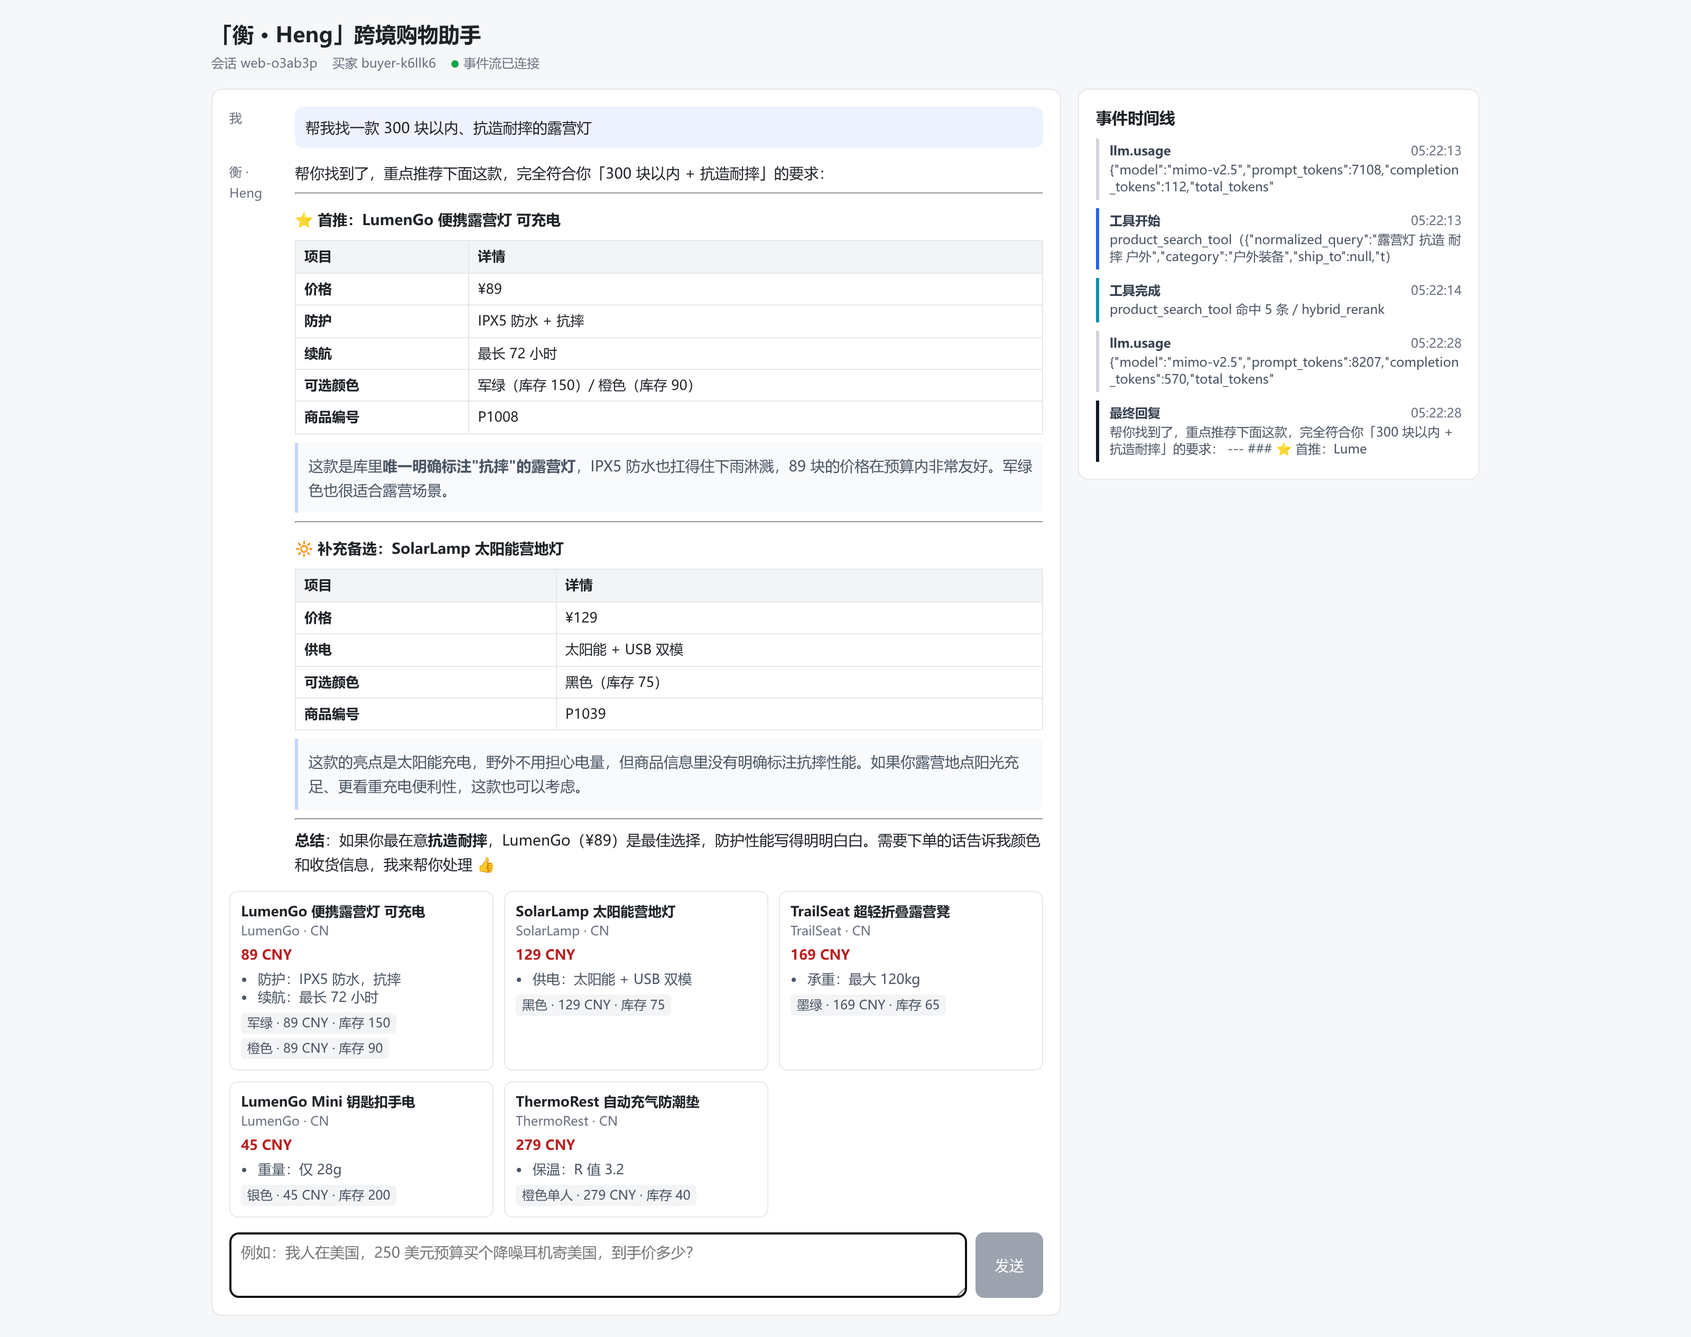
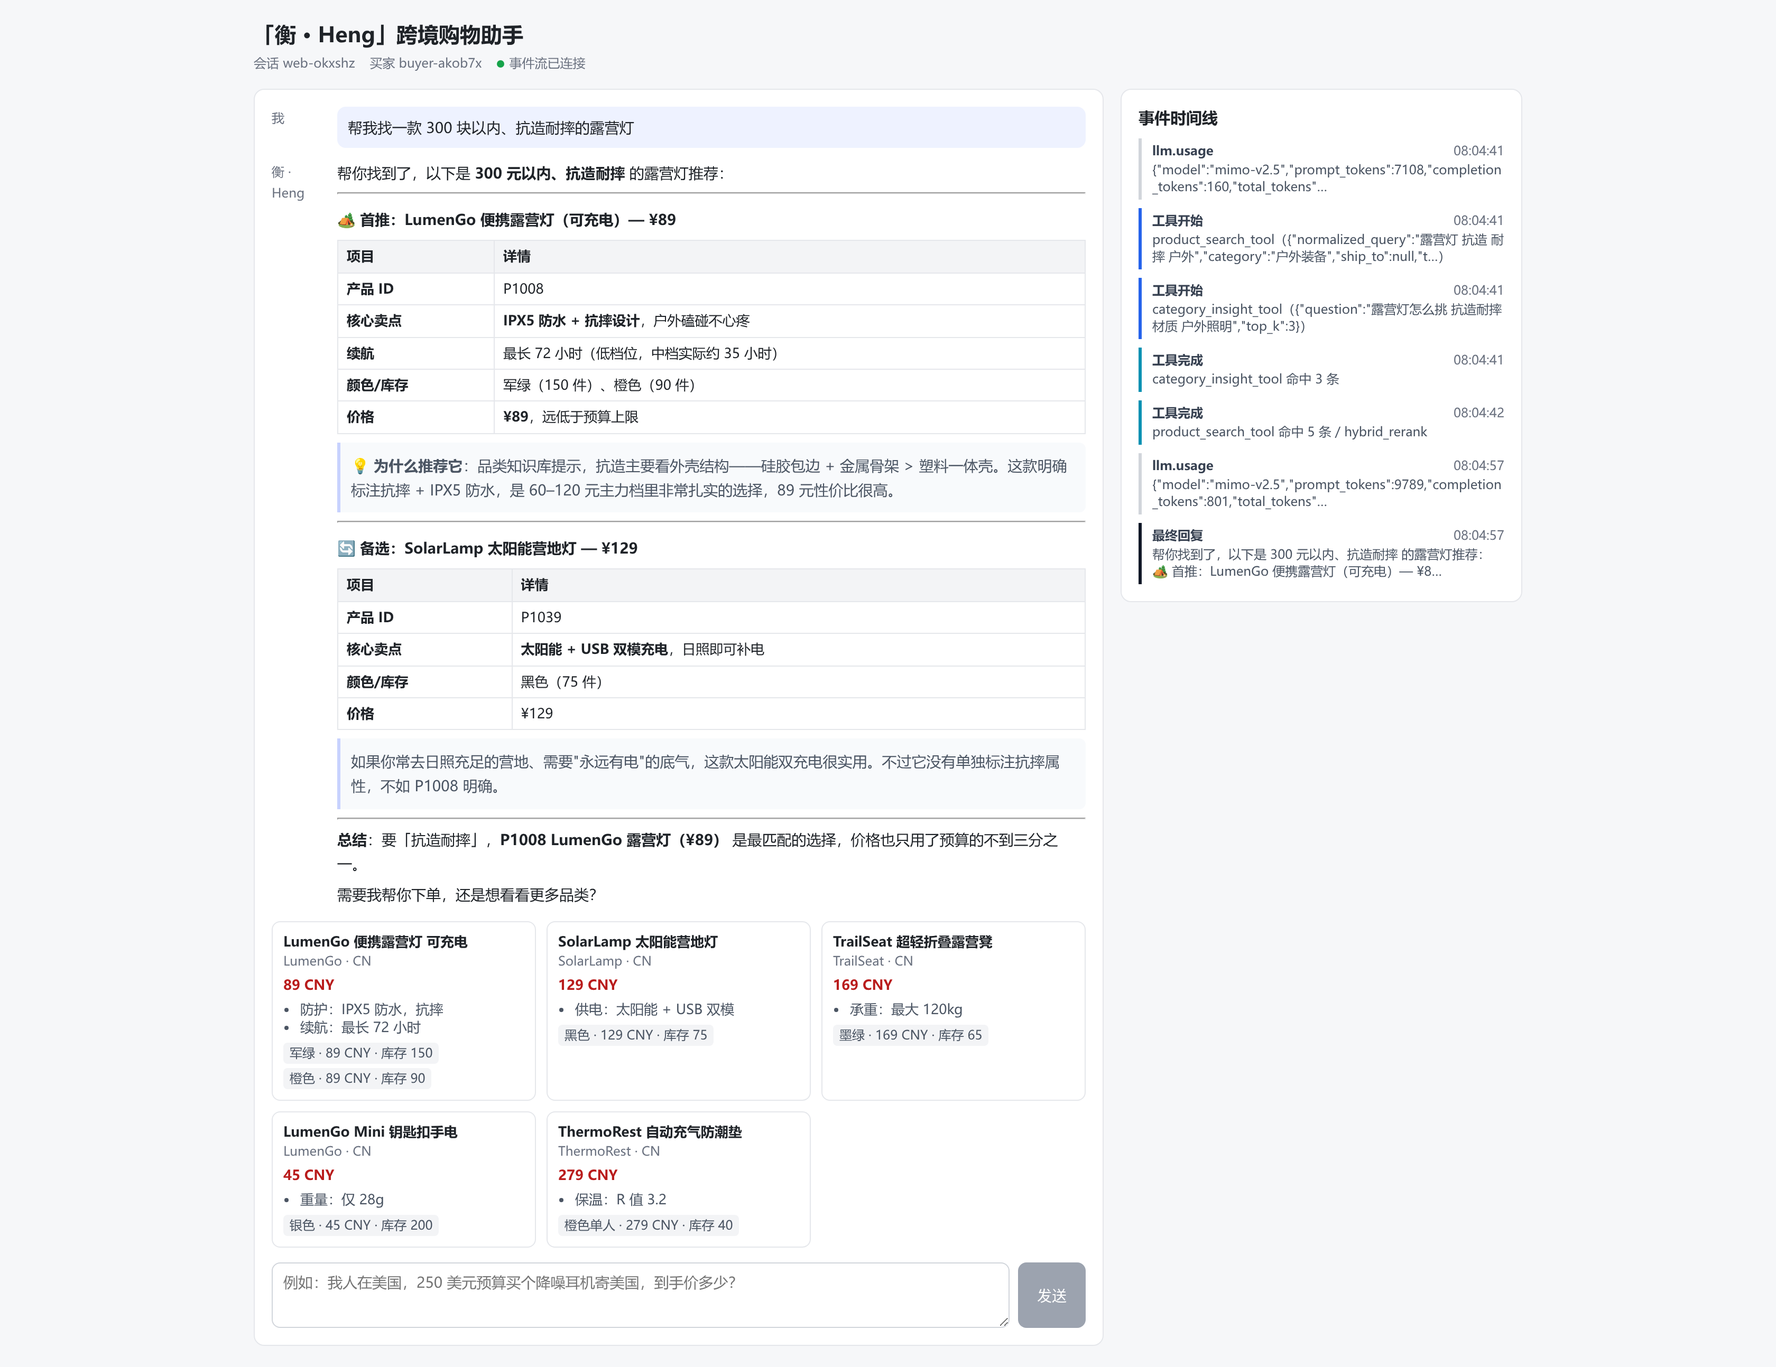
docs(assets): 架构图修错箭头与空盒 + 重截真实跑测效果图
架构图：
- React 前端到 Redis Stream 有一条向下箭头，读起来是"浏览器直连队列"。
  浏览器只跟 FastAPI 说话，横向那条已经说清了，删掉。入队的只有 FastAPI。
- 右栏 Rubric 盒按 3 行的高度画、只填了 2 行正文，空出三分之一。补第三行。
- "五档降级链"与代码和 README 都对不上，改成"降级链如实标注 recall_strategy"。
- 两条竖排标签 7.2pt，在 README 的 900px 宽度下糊成一团，提到 8.6pt。

（本提交也带上会话开始前就未提交的架构图重绘改动。）

效果图重截，真实跑测、hybrid_rerank 主路径（远端 GPU 跑
Qwen3-Embedding-0.6B + Qwen3-Reranker-0.6B）。相比旧图：
- 时间线的截断与 markdown 泄漏已修（前一个前端提交的实机验证）
- 商品卡带到手价拆解（小计 + 运费 + 关税），这轮还触发了 category_insight_tool，
  回复里能看到知识库出处——恰好是判据要管的那条线
- 截图前解除对话区/时间线的 max-height，整页不再被滚动容器截断

配套的 README 双图版式（主图给全景 + 时间线单独 520px 放大）在上一个 docs 提交里：
原来 3360px 塞进 900px，时间线正文缩到约 6px，而它正是"过程实时可见"的唯一证据。

Claude-Session: https://claude.ai/code/session_01YQzsVn4SP6jbArLGfKEujZ

Changed region(s): [[0.125, 0.0, 0.875, 0.968], [0.5625, 0.9055, 0.625, 0.968]]

diff --git a/assets/draw_architecture.py b/assets/draw_architecture.py
@@ -6,9 +6,14 @@
     architecture.png        浅色主题
     architecture-dark.png   深色主题（GitHub dark mode 经 <picture> 自动切换）
 
-布局：左侧主列 = 买家交互 → 接入 → 编排（skill 阶段注入）→ 工具 → 基础设施 → 领域，
-DDD 洋葱自上而下；右侧竖列 = 可信度工程（评测/门禁/飞轮），两条虚线"会话流水 / 判读反哺"
-把评测闭环画进图里——起点终点都钉在盒子边缘，不穿任何元素。
+布局纪律（视觉评审后定稿）：
+- 左列各层带 y 间隙统一 2.0-2.2，层间箭头等长；
+- 编排层容器完整包住 SearchAgent/TradeAgent，说明文字上移到标题行右侧，不压任何盒子；
+- 右列四盒等距（gap 3.0），盒内"标题在上、正文 va=top"，不再上松下紧；
+- 盒高按正文行数配：3 行给 13.4、2 行给 10.6，别让盒子空出半截；
+- 接入层只接 FastAPI 一条入队箭头（浏览器不直连队列）；
+- 两条橙色虚线起止钉在盒边缘，走两列之间的空白通道，竖排标签带底色遮罩压线；
+- 底部信息条三行（认证读数 ×2 + 技术栈/边界），每行右端距边框 ≥ 10 单位。
 """
 from pathlib import Path
 import argparse
@@ -37,7 +42,7 @@ import matplotlib.pyplot as plt
 plt.rcParams["font.family"] = FONT
 plt.rcParams["axes.unicode_minus"] = False
 
-# 主题色板：fill / edge / band-title / body-text
+# 主题色板：fill / edge / band-title
 THEMES = {
     "light": dict(
         file="architecture.png",
@@ -65,10 +70,14 @@ THEMES = {
     ),
 }
 
+BAND_L = 5.5            # 左列各层带左缘
+BAND_W = 60.0
+BAND_R = BAND_L + BAND_W   # 65.5
+EV_L, EV_R = 70.5, 96.5    # 右列
+
 
 def draw(t):
-    W, H = 14.0, 8.8
-    fig, ax = plt.subplots(figsize=(W, H), dpi=200)
+    fig, ax = plt.subplots(figsize=(14.0, 8.8), dpi=200)
     fig.patch.set_facecolor(t["bg"])
     ax.set_xlim(0, 100)
     ax.set_ylim(0, 100)
@@ -83,151 +92,150 @@ def draw(t):
             zorder=2,
         ))
 
-    def text(x, y, s, size=10.5, color=None, weight="normal", ha="center", va="center", rotation=0):
+    def text(x, y, s, size=10.5, color=None, weight="normal", ha="center", va="center",
+             rotation=0, on_line=False):
+        kw = {}
+        if on_line:  # 竖排标签压线时加底色遮罩
+            kw["bbox"] = dict(boxstyle="round,pad=0.18", facecolor=t["bg"], edgecolor="none")
         ax.text(x, y, s, fontsize=size, color=color or t["ink"], fontweight=weight,
-                ha=ha, va=va, zorder=3, linespacing=1.45, rotation=rotation)
+                ha=ha, va=va, zorder=3, linespacing=1.5, rotation=rotation, **kw)
 
     def arrow(x1, y1, x2, y2, color=None, lw=1.6, style="-|>", dashed=False, conn="arc3,rad=0"):
         ax.add_patch(FancyArrowPatch(
             (x1, y1), (x2, y2), arrowstyle=style, mutation_scale=14,
             color=color or t["muted"], linewidth=lw, linestyle=(0, (4, 2)) if dashed else "solid",
-            connectionstyle=conn, zorder=4, shrinkA=2, shrinkB=2,
+            connectionstyle=conn, zorder=4, shrinkA=0, shrinkB=0,
         ))
 
     def band_label(x, y, s):
         ax.text(x, y, s, fontsize=9, color=t["muted"], ha="center", va="center",
                 zorder=3, rotation=0)
 
-    # ============ 左侧主列 ============
-    MAIN_L, MAIN_R = 4, 66
-    BAND_L = MAIN_L + 1.5
-    BAND_R = BAND_L + 60          # 各层带右缘 = 65.5
+    # ============ 标题 ============
+    text(50, 97.6, "「衡 · Heng」跨境电商 Agent —— 系统架构与可信度工程", 15.5, weight="bold")
 
-    # —— 买家交互 ——
+    # ============ 买家交互 ============
     box(8, 88, 22, 8, *t["gray"])
     text(19, 93.2, "React 前端", 11.5, weight="bold")
     text(19, 90.2, "对话流 · 商品卡 · 事件时间线", 8.5, t["muted"])
     box(36, 88, 26, 8, *t["gray"])
     text(49, 93.2, "FastAPI 服务", 11.5, weight="bold")
     text(49, 90.2, "POST /commerce/intents · /events WebSocket", 8.5, t["muted"])
+    arrow(30, 92, 36, 92)
+    band_label(2.8, 92, "买家\n交互")
+
+    # ============ 接入（可选异步链） ============
     box(8, 78, 54, 6.4, t["bg"], t["grid"], lw=1.0, dashed=True)
     text(35, 81.2, "Redis Stream 队列削峰（可选）· 幂等键防重复下单 · 独立 Worker 消费进程", 8.8, t["muted"])
-    arrow(30, 92, 36, 92)
+    # 入队的只有 FastAPI：浏览器不直连 Redis，React 那条向下箭头是错的（已删）
     arrow(49, 88, 49, 84.4, dashed=True)
-    arrow(22, 88, 22, 84.4, dashed=True)
-    band_label(2.8, 92, "买家\n交互")
+    arrow(35.5, 78, 35.5, 76.0, dashed=True)  # 接入 → 编排（补上层间流向）
     band_label(2.8, 81, "接入")
 
-    # —— 编排层 ——
+    # ============ 编排层 ============
     band_fill, band_edge, band_title = t["blue"]
-    box(BAND_L, 63.5, 60, 12.2, band_fill, band_edge, lw=1.6)
-    text(BAND_L + 1.2, 74.2, "编排层（application/agents）", 8.5, band_title, ha="left")
-    text(BAND_L + 30, 64.35, "满足可并行 / 上下文隔离 / 链深才派发，否则 MainAgent 单干",
-         7.2, t["muted"], ha="center")
-    box(BAND_L + 2.8, 66.4, 16.6, 7.0, t["bg"], band_edge, lw=1.3)
-    text(BAND_L + 11.1, 71.6, "Orchestrator", 10.5, weight="bold")
-    text(BAND_L + 11.1, 68.7, "会话恢复 · 记忆注入\n技能阶段路由 set_stage", 7.6, t["muted"])
-    box(BAND_L + 21.5, 66.4, 17.5, 7.0, t["blue_hi"], band_edge, lw=1.8)
-    text(BAND_L + 30.2, 71.8, "MainAgent", 11, weight="bold")
-    text(BAND_L + 30.2, 68.6, "skill 阶段拼装 system prompt\n持有全部业务工具，单干优先", 7.6, t["muted"])
-    box(BAND_L + 41.5, 68.0, 16, 5.4, t["bg"], band_edge, lw=1.2)
-    text(BAND_L + 49.5, 71.7, "SearchAgent", 9.5, weight="bold")
-    text(BAND_L + 49.5, 69.4, "检索专家", 7.6, t["muted"])
-    box(BAND_L + 41.5, 61.6, 16, 5.4, t["bg"], band_edge, lw=1.2)
-    text(BAND_L + 49.5, 65.3, "TradeAgent", 9.5, weight="bold")
-    text(BAND_L + 49.5, 63.0, "交易专家", 7.6, t["muted"])
-    arrow(BAND_L + 19.4, 69.9, BAND_L + 21.5, 69.9)
-    arrow(BAND_L + 39.0, 70.5, BAND_L + 41.5, 70.5, conn="arc3,rad=-0.10")
-    arrow(BAND_L + 39.0, 68.8, BAND_L + 41.5, 64.2, conn="arc3,rad=0.10")
-    text(BAND_L + 40.2, 74.6, "task_dispatch", 7.0, t["muted"], ha="center")
-    band_label(2.8, 69, "编排\n应用层")
+    box(BAND_L, 60.8, BAND_W, 15.2, band_fill, band_edge, lw=1.6)     # 60.8-76.0
+    text(BAND_L + 1.2, 74.7, "编排层（application/agents）", 8.4, band_title, ha="left")
+    text(BAND_R - 1.2, 74.7, "task_dispatch 按链深与可并行性派发，否则 MainAgent 单干",
+         7.0, t["muted"], ha="right")
+    box(8.3, 66.4, 16.6, 7.2, t["bg"], band_edge, lw=1.3)
+    text(16.6, 71.8, "Orchestrator", 10.5, weight="bold")
+    text(16.6, 68.7, "会话恢复 · 记忆注入\n技能阶段路由 set_stage", 7.6, t["muted"])
+    box(27.0, 66.4, 17.5, 7.2, t["blue_hi"], band_edge, lw=1.8)
+    text(35.75, 72.0, "MainAgent", 11, weight="bold")
+    text(35.75, 68.6, "skill 阶段拼装 system prompt\n持有全部业务工具，单干优先", 7.6, t["muted"])
+    box(47.0, 68.2, 16, 5.2, t["bg"], band_edge, lw=1.2)
+    text(55.0, 71.9, "SearchAgent", 9.5, weight="bold")
+    text(55.0, 69.5, "检索专家", 7.6, t["muted"])
+    box(47.0, 61.8, 16, 5.2, t["bg"], band_edge, lw=1.2)
+    text(55.0, 65.5, "TradeAgent", 9.5, weight="bold")
+    text(55.0, 63.1, "交易专家", 7.6, t["muted"])
+    arrow(24.9, 70.0, 27.0, 70.0)
+    arrow(44.5, 71.2, 47.0, 71.5, conn="arc3,rad=-0.08")
+    arrow(44.5, 68.8, 47.0, 64.6, conn="arc3,rad=0.10")
+    band_label(2.8, 68, "编排\n应用层")
 
-    # —— 工具层 ——
+    arrow(35.5, 60.8, 35.5, 58.8)   # 编排 → 工具
+
+    # ============ 工具层 ============
     band_fill, band_edge, band_title = t["purple"]
-    box(BAND_L, 48.5, 60, 9.2, band_fill, band_edge, lw=1.4)
-    text(BAND_L + 1.2, 56.2, "工具层（application/tools）——返回值自带边界与出处", 8.5, band_title, ha="left")
+    box(BAND_L, 48.6, BAND_W, 10.2, band_fill, band_edge, lw=1.4)     # 48.6-58.8
+    text(BAND_L + 1.2, 57.4, "工具层（application/tools）——返回值自带边界与出处", 8.4, band_title, ha="left")
     tools = ["商品检索\n混合召回", "组合报价\n一次履约计费", "组合优化\n预算枚举",
              "订单三件套\n跨越确认", "偏好记忆\n跨会话", "品类洞察\nRAG"]
-    tw = 9.0
     for i, s in enumerate(tools):
-        tx = BAND_L + 1.6 + i * (tw + 0.62)
-        box(tx, 49.6, tw, 5.6, t["bg"], band_edge, lw=1.0, radius=0.8)
-        text(tx + tw / 2, 52.4, s, 7.6)
-    band_label(2.8, 53, "工具")
+        tx = 7.1 + i * 9.62
+        box(tx, 49.4, 9.0, 6.6, t["bg"], band_edge, lw=1.0, radius=0.8)
+        text(tx + 4.5, 52.7, s, 7.6)
+    band_label(2.8, 53.5, "工具")
 
-    # —— 基础设施层 ——
+    arrow(35.5, 48.6, 35.5, 46.4)   # 工具 → 基础设施
+
+    # ============ 基础设施层 ============
     band_fill, band_edge, band_title = t["green"]
-    box(BAND_L, 29.6, 60, 16.4, band_fill, band_edge, lw=1.4)
-    text(BAND_L + 1.2, 44.6, "基础设施（infrastructure）", 8.5, band_title, ha="left")
-
+    box(BAND_L, 29.4, BAND_W, 17.0, band_fill, band_edge, lw=1.4)     # 29.4-46.4
+    text(BAND_L + 1.2, 45.0, "基础设施（infrastructure）", 8.4, band_title, ha="left")
     infra = [
-        ("LLM 网关治理", "限并发 + 间隔闸门\n瞬时故障退避重试\n回退备用模型·发事件\n重试收口只有一层"),
-        ("检索链路", "BM25 + 向量 RRF 融合\ncross-encoder 精排\n五档降级链如实标注\n置信度门控（降级态）"),
-        ("存储与缓存", "SQLite 流水/订单/会话\nQdrant 向量与知识库\n语义缓存（写旁路）\nRedis 事件背板"),
+        ("LLM 网关治理", "限并发 + 间隔闸门\n瞬时故障退避重试\n回退备用模型·发事件\n重试收口只有一层", 7.1, 17.6),
+        ("检索链路", "BM25 + 向量 RRF 融合\ncross-encoder 精排\n降级链如实标注 recall_strategy\n置信度门控（降级态）", 26.3, 17.6),
+        ("存储与缓存", "SQLite 流水/订单/会话\nQdrant 向量与知识库\n语义缓存（写旁路）\nRedis 事件背板", 45.5, 18.4),
     ]
-    for i, (title, detail) in enumerate(infra):
-        ix = BAND_L + 1.6 + i * 19.0
-        iw = 17.4 if i < 2 else 18.8
-        box(ix, 31.6, iw, 11.6, t["bg"], band_edge, lw=1.2)
-        text(ix + iw / 2, 42.3, title, 9.5, weight="bold")
-        text(ix + iw / 2, 39.9, detail, 7.2, t["muted"], va="top")
+    for title, detail, ix, iw in infra:
+        box(ix, 30.6, iw, 12.8, t["bg"], band_edge, lw=1.2)           # 30.6-43.4
+        text(ix + iw / 2, 41.8, title, 9.5, weight="bold")
+        text(ix + iw / 2, 39.8, detail, 7.2, t["muted"], va="top")
     band_label(2.8, 38, "基础\n设施")
 
-    arrow(BAND_L + 30.2, 63.5, BAND_L + 30.2, 57.9)   # 编排 → 工具
-    arrow(BAND_L + 30.2, 48.5, BAND_L + 30.2, 46.2)   # 工具 → 基础设施
+    arrow(35.5, 29.4, 35.5, 27.2)   # 基础设施 → 领域
 
-    # —— 域层横条 ——
+    # ============ 领域层 ============
     band_fill, band_edge, band_title = t["red"]
-    box(BAND_L, 20.4, 60, 6.6, band_fill, band_edge, lw=1.4)
-    text(BAND_L + 30, 24.8, "领域层（domain）—— 计价 / 关税 / 汇率 / 订单状态机：确定性的都留在这里",
+    box(BAND_L, 20.6, BAND_W, 6.6, band_fill, band_edge, lw=1.4)      # 20.6-27.2
+    text(BAND_L + 30, 24.9, "领域层（domain）—— 计价 / 关税 / 汇率 / 订单状态机：确定性的都留在这里",
          9.3, band_title, weight="bold")
-    text(BAND_L + 30, 22.0, "到手价与组合总价可确定性复算 · 免税额度存原生口径 · 订单归属校验",
-         7.8, t["muted"])
-    arrow(BAND_L + 30, 29.6, BAND_L + 30, 27.2)
-    band_label(2.8, 23.6, "领域")
+    text(BAND_L + 30, 22.1, "到手价与组合总价可确定性复算 · 免税额度存原生口径 · 订单归属校验", 7.8, t["muted"])
+    band_label(2.8, 23.9, "领域")
 
     # ============ 右侧：可信度工程 ============
-    EV_L, EV_R = 70.5, 96.5
     ev_fill, ev_edge, ev_title = t["amber"]
-    box(EV_L, 21.5, EV_R - EV_L, 74.5, ev_fill, ev_edge, lw=1.4)
-    text((EV_L + EV_R) / 2, 92.8, "可信度工程（eval/）", 12.5, ev_title, weight="bold")
-    text((EV_L + EV_R) / 2, 89.6, "每个数字都有出处、判据、复现命令", 8.3, t["muted"])
+    box(EV_L, 24.0, EV_R - EV_L, 72.0, ev_fill, ev_edge, lw=1.4)      # 24.0-96.0
+    text((EV_L + EV_R) / 2, 93.6, "可信度工程（eval/）", 12.5, ev_title, weight="bold")
+    text((EV_L + EV_R) / 2, 90.3, "每个数字都有出处、判据、复现命令", 8.3, t["muted"])
 
     ev_boxes = [
-        ("Rubric 评测回归", "60 用例（44 主线 + 11 红队 + 5 记忆）× judge\n配置行自报指纹与依赖实测可达性"),
-        ("A/B 认证轮（mem_replay）", "注入开 vs 关 · 成对比较\n位置互换 + 多数投票 + 双 judge\n三重认证 · 分层判读（预登记）"),
-        ("确定性判据门禁（零 LLM）", "金额出处 / 算式自洽 / 组合错加\n知识库出处 / 订单归属 / 召回指标\nmake check 八项 · 审计十几秒 · 真红留档"),
-        ("Bad-case 飞轮", "失败采集 → 指纹去重\n人工分诊 → 回归集\n判据与提示词同步迭代"),
+        ("Rubric 评测回归",
+         "60 用例（44 主线 + 11 红队 + 5 记忆）× judge\njudge 分级 P0/P1/P2 · 主线 44 条固定考卷\n配置行自报指纹与依赖实测可达性", 13.4),
+        ("A/B 认证轮（mem_replay）",
+         "注入开 vs 关 · 成对比较\n位置互换 + 多数投票 + 双 judge\n三重认证 · 分层判读（预登记）", 13.4),
+        ("确定性判据门禁（零 LLM）",
+         "金额出处 / 算式自洽 / 组合错加\n知识库出处 / 订单归属 / 召回指标\nmake check 八项 · 审计十几秒 · 真红留档", 13.4),
+        ("Bad-case 飞轮",
+         "失败采集 → 指纹去重\n人工分诊 → 回归集\n判据与提示词同步迭代", 10.6),
     ]
-    ey = 84.0
-    heights = [12.6, 12.6, 12.6, 9.8]
-    gap = 2.4
-    for (title, detail), bh in zip(ev_boxes, heights):
-        box(EV_L + 2, ey - bh, EV_R - EV_L - 4, bh, t["bg"], ev_edge, lw=1.0)
-        text((EV_L + EV_R) / 2, ey - 1.7, title, 10, ev_title, weight="bold")
-        text((EV_L + EV_R) / 2, ey - bh / 2 - 1.9, detail, 7.8, t["muted"])
-        ey -= bh + gap
+    ey = 86.6
+    for title, detail, bh in ev_boxes:
+        box(EV_L + 1.4, ey - bh, EV_R - EV_L - 2.8, bh, t["bg"], ev_edge, lw=1.0)
+        text((EV_L + EV_R) / 2, ey - 1.8, title, 10, ev_title, weight="bold")
+        text((EV_L + EV_R) / 2, ey - 3.6, detail, 7.8, t["muted"], va="top")
+        ey -= bh + 3.0
 
-    # 闭环两条虚线：起点/终点都钉在盒子边缘，直线连接，不穿任何元素
-    # 会话流水：编排层右缘 (65.5, 69.5) → 可信度左缘 (70.5, 78.2)
-    arrow(BAND_R, 69.5, EV_L, 78.2, color=ev_edge, dashed=True, lw=1.5)
-    text(68.0, 74.6, "会话流水", 7.2, ev_title, rotation=90)
-    # 判读反哺：可信度左缘 (70.5, 40.0) → 工具层右缘 (65.5, 52.0)
-    arrow(EV_L, 40.0, BAND_R, 52.0, color=ev_edge, dashed=True, lw=1.5)
-    text(68.0, 45.4, "判读反哺", 7.2, ev_title, rotation=90)
+    # 闭环两条虚线：起止钉在盒边缘，走两列间空白通道
+    arrow(BAND_R, 69.5, EV_L, 78.5, color=ev_edge, dashed=True, lw=1.5)
+    text(68.0, 74.8, "会话流水", 8.6, ev_title, rotation=90, on_line=True)
+    arrow(EV_L, 44.0, BAND_R, 52.0, color=ev_edge, dashed=True, lw=1.5)
+    text(68.0, 47.6, "判读反哺", 8.6, ev_title, rotation=90, on_line=True)
 
-    # ============ 标题与底注 ============
-    text(50, 97.8, "「衡 · Heng」跨境电商 Agent —— 系统架构与可信度工程", 15.5, t["ink"], weight="bold")
-
+    # ============ 底部信息条 ============
     f_fill, f_edge = t["footer"]
-    box(4, 8.6, 92.5, 8.8, f_fill, f_edge, lw=1.0)
-    text(5.6, 15.4, "认证读数", 8.8, ev_title, weight="bold", ha="left")
-    text(13.4, 15.4, "记忆层认证 #12：decisive 33 · p=0.000324（注入开显著优，三重认证全过）　｜　"
-                     "Skill 加载 #14：prompt P50 -37.1% · 五护栏全过（42/44 · 0.9545 · 调用率 +12.9%）",
-         8.5, t["ink"], ha="left")
-    text(5.6, 12.6, "技术栈", 8.8, t["muted"], weight="bold", ha="left")
-    text(13.4, 12.6, "Python 3.11 · AgentScope 2.0 · FastAPI · React 18 · SQLite / Qdrant / Redis · 自建 Qwen3 检索服务"
-                     "　　边界声明：自建评测 · 无真实线上流量 · 单人标注（方法验证项目）",
+    box(4, 7.4, 92.5, 10.2, f_fill, f_edge, lw=1.0)
+    text(5.8, 15.3, "认证读数", 8.8, ev_title, weight="bold", ha="left")
+    text(13.6, 15.3, "记忆层认证 #12：decisive 33 · p=0.000324（注入开显著优，三重认证全过）",
+         8.6, t["ink"], ha="left")
+    text(13.6, 12.9, "Skill 渐进加载 #14：prompt P50 -37.1% · 五护栏全过（42/44 · 均分 0.9545 · 调用率 +12.9%）",
+         8.6, t["ink"], ha="left")
+    text(5.8, 10.0, "技术栈", 8.8, t["muted"], weight="bold", ha="left")
+    text(13.6, 10.0, "Python 3.11 · AgentScope 2.0 · FastAPI · React 18 · SQLite / Qdrant / Redis · 自建 Qwen3 检索"
+                     "　|　边界声明：自建评测 · 无真实线上流量 · 单人标注（方法验证）",
          8.2, t["muted"], ha="left")
 
     return fig
